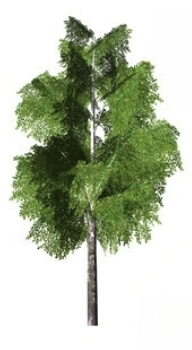
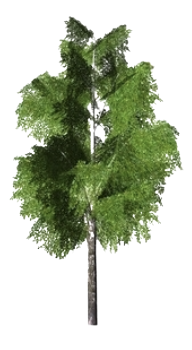
Ended the trees

diff --git a/project/MyScene.js b/project/MyScene.js
@@ -5,6 +5,9 @@ import { MyPanorama } from "./objects/MyPanorama.js";
 import { MySphere } from "./objects/MySphere.js";
 import { MyBirdEgg } from "./objects/MyBirdEgg.js";
 import { MyNest } from "./objects/MyNest.js";
+import { MyBillboard } from "./objects/MyBillboard.js";
+import { MyTreeRowPatch } from "./objects/MyTreeRowPatch.js";
+import { MyTreeGroupPatch } from "./objects/MyTreeGroupPatch.js";
 
 
 /**
@@ -37,6 +40,12 @@ export class MyScene extends CGFscene {
       new CGFtexture(this, 'images/earth.jpg'), 
       new CGFtexture(this, 'images/panorama.jpg')
     ];
+
+    // Shaders
+    this.testShaders = [
+			new CGFshader(this.gl, "shaders/height.vert", "shaders/height.frag"),
+		];
+
     this.textureList = {
       'Earth' : 0, 
       'Panorama' : 1
@@ -50,6 +59,8 @@ export class MyScene extends CGFscene {
     this.panorama = new MyPanorama(this, this.textures[this.selectedTexture]);
     this.bird = new MyBird(this, 20, -20, 70, 0, 0, [0, 0.256, 1]); // in the same z as the first egg
     this.nest = new MyNest(this, 20, -51.3, 55); // y = -51.3
+    this.treeRow = new MyTreeRowPatch(this, this.bird.terrainY);
+    this.treeGroup = new MyTreeGroupPatch(this, this.bird.terrainY);
 
     // Objects connected to MyInterface
     this.displayAxis = true;
@@ -59,6 +70,7 @@ export class MyScene extends CGFscene {
     this.displayBird = true;
     this.displayEggs = true;
     this.displayNest = true;
+    this.displayTrees = true;
     this.scaleFactor = 1;
     this.speedFactor = 1;
 
@@ -77,10 +89,6 @@ export class MyScene extends CGFscene {
 		this.appearance.setTexture(this.texture);
 		this.appearance.setTextureWrap('REPEAT', 'REPEAT');
 
-    // Shaders
-    this.testShaders = [
-			new CGFshader(this.gl, "shaders/height.vert", "shaders/height.frag"),
-		];
     this.testShaders[0].setUniformsValues({ uSampler2: 1 , uSampler3: 2});
 
     this.setUpdatePeriod(10);
@@ -197,7 +205,10 @@ export class MyScene extends CGFscene {
     this.checkKeys();
 
     this.bird.move();
-    // this.bird.yPos = Math.cos((t*this.speedFactor) / 200) / 5;
+    if (!this.bird.picking) { // when the birs is picking an egg, the bird does not oscillate
+      this.bird.yPos = Math.cos((t*this.speedFactor) / 200) / 5;
+    }
+
     this.bird.wingAngle = (Math.PI/16 + Math.cos((t*this.speedFactor) / 200)) % Math.PI/16;
     this.bird.tailAngle = (Math.PI/16 + Math.cos((t*this.speedFactor) / 200)) % Math.PI/16;
   }
@@ -262,6 +273,13 @@ export class MyScene extends CGFscene {
       this.popMatrix();
     }
 
+    if (this.displayTrees) {
+      this.pushMatrix();
+      this.treeRow.display();
+      this.treeGroup.display();
+      this.popMatrix();
+    }
+    
 
     // ---- END Primitive drawing section
   }

diff --git a/project/objects/MyBillboard.js b/project/objects/MyBillboard.js
@@ -1,0 +1,41 @@
+import { CGFobject, CGFappearance, CGFshader, CGFtexture } from '../../lib/CGF.js';
+import { MyQuad } from './MyQuad.js';
+
+export class MyBillboard extends CGFobject {
+	constructor(scene) {
+		super(scene);
+        
+        this.quad = new MyQuad(scene);
+        this.textures = [];
+        this.numTextures = 6;
+        
+        for (var i = 1; i <= this.numTextures; i++) {
+            var texture = new CGFappearance(scene);
+            texture.setTexture(new CGFtexture(scene, "images/trees/billboard" + i + ".png"))
+            texture.setTextureWrap('REPEAT', 'REPEAT');
+            texture.setAmbient(1, 1, 1, 1.0);
+            texture.setDiffuse(1, 1, 1, 1.0);
+            this.textures.push(texture);
+        }
+	}
+
+    
+	display(x, y, z, textureToApply = 0) {
+        const toCamera = vec3.sub(vec3.create(), this.scene.camera.position, [x, y, z]);
+        vec3.normalize(toCamera, toCamera);
+
+        const rotationAngle = Math.acos(vec3.dot([0, 0, 1], toCamera));
+
+        const rotationAxis = vec3.cross(vec3.create(), [0, 0, 1], toCamera);
+        vec3.normalize(rotationAxis, rotationAxis);
+
+        this.textures[textureToApply].apply();
+
+        this.scene.pushMatrix();
+            this.scene.translate(x, y, z);
+            this.scene.rotate(rotationAngle, 0, rotationAxis[1], 0);
+            this.scene.scale(12, 12, 12);
+            this.quad.display();
+        this.scene.popMatrix();
+	}
+}

diff --git a/project/objects/MyTreeGroupPatch.js b/project/objects/MyTreeGroupPatch.js
@@ -1,0 +1,27 @@
+import { CGFobject, CGFappearance, CGFshader, CGFtexture } from '../../lib/CGF.js';
+import { MyBillboard } from './MyBillboard.js';
+import { MyQuad } from './MyQuad.js';
+
+export class MyTreeGroupPatch extends CGFobject {
+	constructor(scene, terrainY) {
+		super(scene);
+        
+        this.tree = new MyBillboard(scene);
+        this.numTrees = 9;
+        this.distance = 15;
+        this.terrainY = terrainY;
+
+        this.randomTextures = Array.from({length : this.numTrees}, () => Math.floor(Math.random() * (this.tree.numTextures - 1)));
+	}
+
+    
+	display() {
+        var texIndex = 0;
+        for (var i = 0; i < Math.sqrt(this.numTrees); i++) {
+            for (var j = 0; j < Math.sqrt(this.numTrees); j++) {
+                this.tree.display(-25 + (j * this.distance) + this.randomTextures[texIndex], this.terrainY + 4, 50 + (i * this.distance) + this.randomTextures[texIndex], this.randomTextures[texIndex]);
+                texIndex++;
+            } 
+        }
+	}
+}

diff --git a/project/objects/MyQuad.js b/project/objects/MyQuad.js
@@ -1,0 +1,48 @@
+import {CGFobject} from '/lib/CGF.js';
+/**
+ * MyDiamond
+ * @constructor
+ * @param scene - Reference to MyScene object
+ */
+export class MyQuad extends CGFobject {
+	constructor(scene) {
+		super(scene);
+		this.initBuffers();
+	}
+	
+	initBuffers() {
+		this.vertices = [
+			-0.5, -0.5, 0,	// 0
+			0.5, -0.5, 0,	// 1
+			-0.5, 0.5, 0,	// 2
+			0.5, 0.5, 0		// 3
+		];
+
+		// Counter-clockwise reference of vertices (references the one vertices, i.e. vertices indexes)
+		this.indices = [
+			0, 1, 2,
+			1, 3, 2, 
+		];
+
+        this.normals = [
+            0, 0, 1, 
+            0, 0, 1,
+            0, 0, 1, 
+            0, 0, 1, 
+        ];
+
+
+        this.texCoords = [
+            0, 1,
+            1, 1,
+            0, 0,
+            1, 0, 
+        ];
+		// The defined indices (and corresponding vertices)
+		// will be read in groups of three to draw triangles
+		this.primitiveType = this.scene.gl.TRIANGLES;
+
+		this.initGLBuffers();
+	}
+}
+

diff --git a/project/objects/MyBird.js b/project/objects/MyBird.js
@@ -43,6 +43,7 @@ export class MyBird extends CGFobject {
 		this.picking = false;
 		this.dropping= false;
 		this.down = false;
+		this.up = false;
 		this.catchedEgg = null;
 		this.initialX = xPos; // 20
 		this.initialY = yPos; // -51.3
@@ -214,6 +215,7 @@ export class MyBird extends CGFobject {
 	getDown() {
 		if (this.down) {
 			if (this.yPos <= (this.terrainY - 0.8)) { // give a margin to catch the egg
+				this.up = true;
 				this.down = false;
 
 				if (this.catchedEgg == null) { // only verifies if it the birs does not have an egg with him (a catched egg)
@@ -228,6 +230,7 @@ export class MyBird extends CGFobject {
 		} else {
 			if (this.yPos >= this.initialY) {
 				this.picking = false;
+				this.up = false;
 			} else {
 				this.yPos += ((-this.terrainY) - (-this.initialY)) / 60;
 			}

diff --git a/project/objects/MyTreeRowPatch.js b/project/objects/MyTreeRowPatch.js
@@ -1,0 +1,23 @@
+import { CGFobject, CGFappearance, CGFshader, CGFtexture } from '../../lib/CGF.js';
+import { MyBillboard } from './MyBillboard.js';
+import { MyQuad } from './MyQuad.js';
+
+export class MyTreeRowPatch extends CGFobject {
+	constructor(scene, terrainY) {
+		super(scene);
+        
+        this.tree = new MyBillboard(scene);
+        this.numTrees = 6;
+        this.distance = 10;
+        this.terrainY = terrainY;
+
+        this.randomTextures = Array.from({length : this.numTrees}, () => Math.floor(Math.random() * this.tree.numTextures));
+	}
+
+    
+	display() {
+        for (var i = 0; i < this.numTrees; i++) {
+            this.tree.display(20 + (i * this.distance) + this.randomTextures[i], this.terrainY + 4, 80, this.randomTextures[i]);
+        }
+	}
+}

diff --git a/project/MyInterface.js b/project/MyInterface.js
@@ -26,6 +26,7 @@ export class MyInterface extends CGFinterface {
         this.gui.add(this.scene, 'displayBird').name('Display Bird');
         this.gui.add(this.scene, 'displayEggs').name('Display Eggs');
         this.gui.add(this.scene, 'displayNest').name('Display Nest');
+        this.gui.add(this.scene, 'displayTrees').name('Display Trees');
 
 
         //Slider element in GUI
